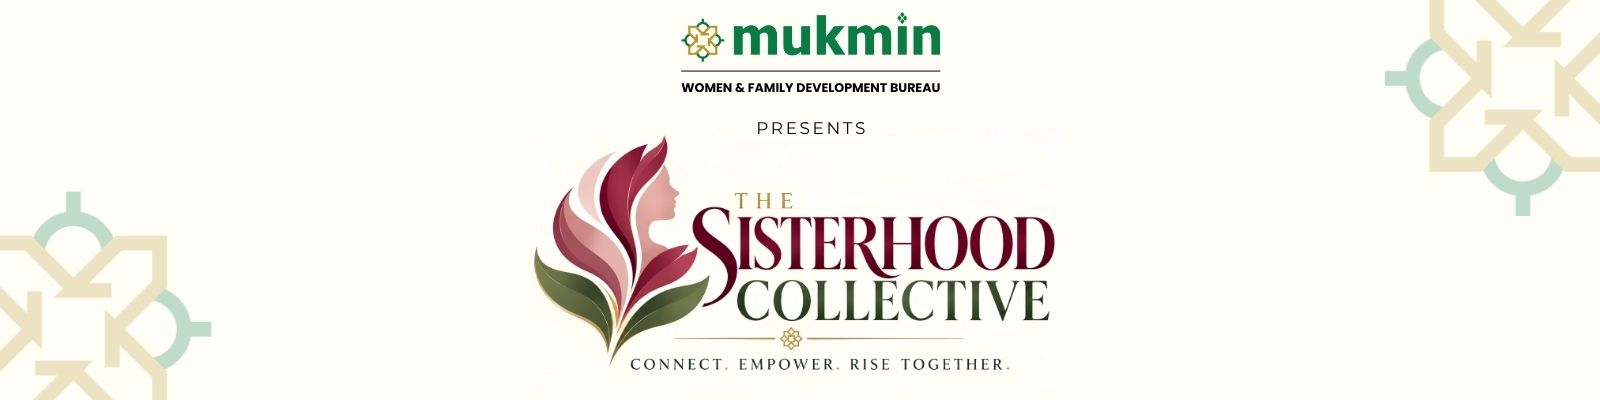
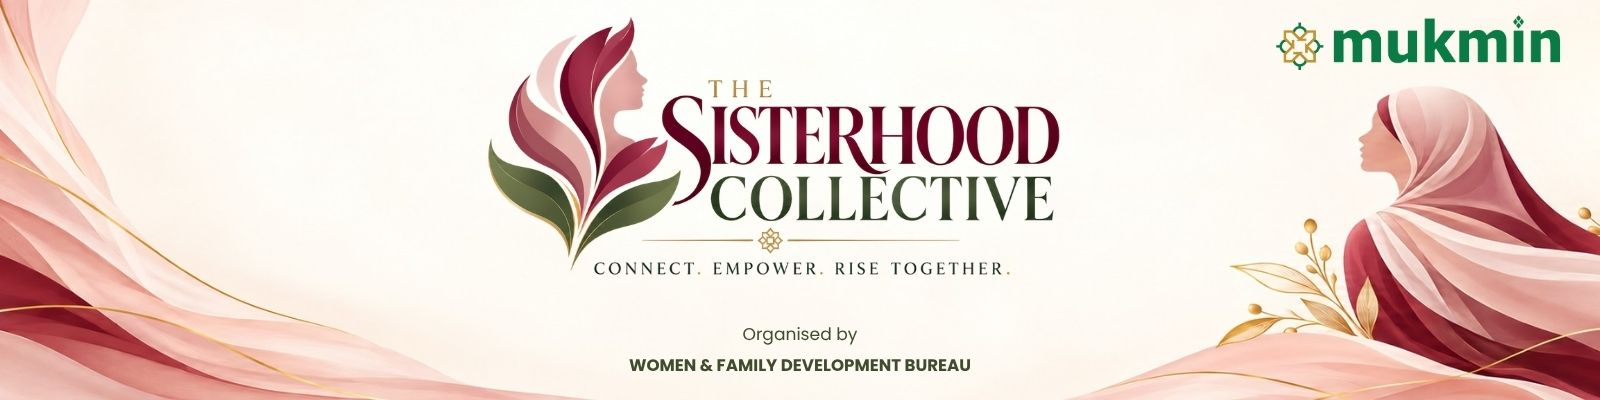
sisterhood changes

diff --git a/resources/views/welfare/pages/sisterhood/register.blade.php b/resources/views/welfare/pages/sisterhood/register.blade.php
@@ -48,9 +48,13 @@
 }
 .event-details-title { font-size: 22px; font-weight: 700; color: #1e1e1e; margin: 22px 0 12px; }
 .event-details { list-style: none; margin: 0 0 16px; padding: 0; }
-.event-details li { display: flex; align-items: flex-start; gap: 8px; margin: 8px 0; color: #222; line-height: 1.5; }
-.event-details li span { flex-shrink: 0; width: 1.4em; }
+.event-details > li { display: flex; align-items: flex-start; gap: 8px; margin: 8px 0; color: #222; line-height: 1.5; }
+.event-details > li > span { flex-shrink: 0; width: 1.4em; }
+.event-details-sub { list-style: disc; margin: 4px 0 0; padding-left: 1.2em; }
+.event-details-sub li { display: list-item; margin: 2px 0; }
 .fee-note { background: #fdf6f4; border-left: 4px solid #d43c18; padding: 14px 16px; margin: 20px 0 28px; }
+.fee-note p { margin: 0 0 10px; }
+.fee-note p:last-child { margin-bottom: 0; }
 .form-control {
     width: 100%;
     padding: 12px 16px;
@@ -99,7 +103,7 @@
 <div class="form-page-container">
     <div class="container">
         <div class="form-card">
-            <img class="sisterhood-form-banner" src="{{ asset('welfare/img/sisterhood-collective-banner.jpg') }}" alt="MUKMIN Women and Family Development Bureau presents The Sisterhood Collective. Connect. Empower. Rise Together.">
+            <img class="sisterhood-form-banner" src="{{ asset('welfare/img/sisterhood-collective-banner.jpg') }}?v=2" alt="The Sisterhood Collective. Connect. Empower. Rise Together. Organised by Women and Family Development Bureau.">
             <div class="form-header">
                 <h1>The Sisterhood Collective 2026 | Participant Registration</h1>
                 <p class="form-tagline">Connect. Empower. Rise Together.</p>
@@ -114,13 +118,22 @@
                     <li><span aria-hidden="true">🕘</span> Time: {{ \App\Support\SisterhoodCollective::EVENT_TIME }}</li>
                     <li><span aria-hidden="true">📍</span> Venue: {{ \App\Support\SisterhoodCollective::EVENT_VENUE }}</li>
                     <li><span aria-hidden="true">🎟</span> Registration Fee: RM{{ number_format(\App\Support\SisterhoodCollective::FEE, 0) }} per person</li>
-                    <li><span aria-hidden="true">👩</span> Open to: Registered Friends of Mukmin Indian Muslim women aged 18 and above</li>
+                    <li>
+                        <span aria-hidden="true">👩</span>
+                        <div>
+                            Open to:
+                            <ul class="event-details-sub">
+                                <li>Registered Friends of MUKMIN</li>
+                                <li>Indian Muslim women aged 18 and above</li>
+                            </ul>
+                        </div>
+                    </li>
                 </ul>
                 <p class="form-body">Dress Theme: {{ \App\Support\SisterhoodCollective::EVENT_DRESS }}. Modest attire complemented by Indian Muslim traditional jewellery or cultural accessories.</p>
                 <p>Registration closes on 17 November 2026.</p>
                 <p class="form-body">Come as you are, bring your stories and leave with new connections, fresh inspiration and a shared sense of purpose.</p>
                 <p>Because when women connect, communities grow and generations rise.</p>
-                <p><strong>Organised by {{ \App\Support\SisterhoodCollective::ORGANISER }}</strong></p>
+                <p><strong>Organised by:<br>{{ \App\Support\SisterhoodCollective::ORGANISER }}</strong></p>
                 </div>
             </div>
 
@@ -135,8 +148,8 @@
                 </div>
             @else
                 <div class="fee-note">
-                    <strong>Every question is required, except address line 2.</strong>
-                    <p style="margin: 8px 0 0;">After you submit this form you will be taken to the payment gateway to pay the RM{{ number_format(\App\Support\SisterhoodCollective::FEE, 0) }} registration fee. Your place is confirmed only after that payment is received.</p>
+                    <p>Upon submitting this form, you will be redirected to the payment gateway to complete the RM30 registration fee.</p>
+                    <p>Your registration will only be confirmed once payment has been successfully received.</p>
                 </div>
 
                 @if($errors->any())

diff --git a/tests/Feature/SisterhoodRegistrationTest.php b/tests/Feature/SisterhoodRegistrationTest.php
@@ -54,7 +54,17 @@ class SisterhoodRegistrationTest extends TestCase
 
         $response->assertOk();
         $response->assertSee('Full Name (as per NRIC/Passport)', false);
-        $response->assertSee('Salutation / Gelaran', false);
+        $response->assertSee('Salutation', false);
+        $response->assertSee('Preferred Name', false);
+        $response->assertSee('Organised by:', false);
+        $response->assertSee('Upon submitting this form, you will be redirected to the payment gateway to complete the RM30 registration fee.', false);
+        $response->assertSee('Your registration will only be confirmed once payment has been successfully received.', false);
+        $response->assertDontSee('Every question is required, except address line 2.', false);
+        $response->assertSee('Registered Friends of MUKMIN', false);
+        $response->assertSee('Indian Muslim women aged 18 and above', false);
+        $response->assertDontSee('Salutation / Gelaran', false);
+        $response->assertDontSee('Nama Panggilan', false);
+        $response->assertDontSee('Friends of Mukmin', false);
         $response->assertSee('Area of Interest', false);
         $response->assertSee('Participation Declaration', false);
         $response->assertSee('Emergency Contact Name', false);

diff --git a/resources/views/welfare/partials/sisterhood-fields.blade.php b/resources/views/welfare/partials/sisterhood-fields.blade.php
@@ -45,7 +45,7 @@
 </div>
 
 <div class="form-group">
-    <label for="salutation">Salutation / Gelaran</label>
+    <label for="salutation">Salutation</label>
     <select id="salutation" name="salutation" class="form-control" required>
         <option value="">Choose</option>
         @foreach(SisterhoodCollective::salutations() as $option)
@@ -56,7 +56,7 @@
 </div>
 
 <div class="form-group">
-    <label for="preferred_name">Preferred Name (Nama Panggilan)</label>
+    <label for="preferred_name">Preferred Name</label>
     <input type="text" id="preferred_name" name="preferred_name" class="form-control autocap" value="{{ $field('preferred_name') }}" maxlength="255" required autocapitalize="characters">
     @error('preferred_name')<span class="field-error">{{ $message }}</span>@enderror
 </div>
